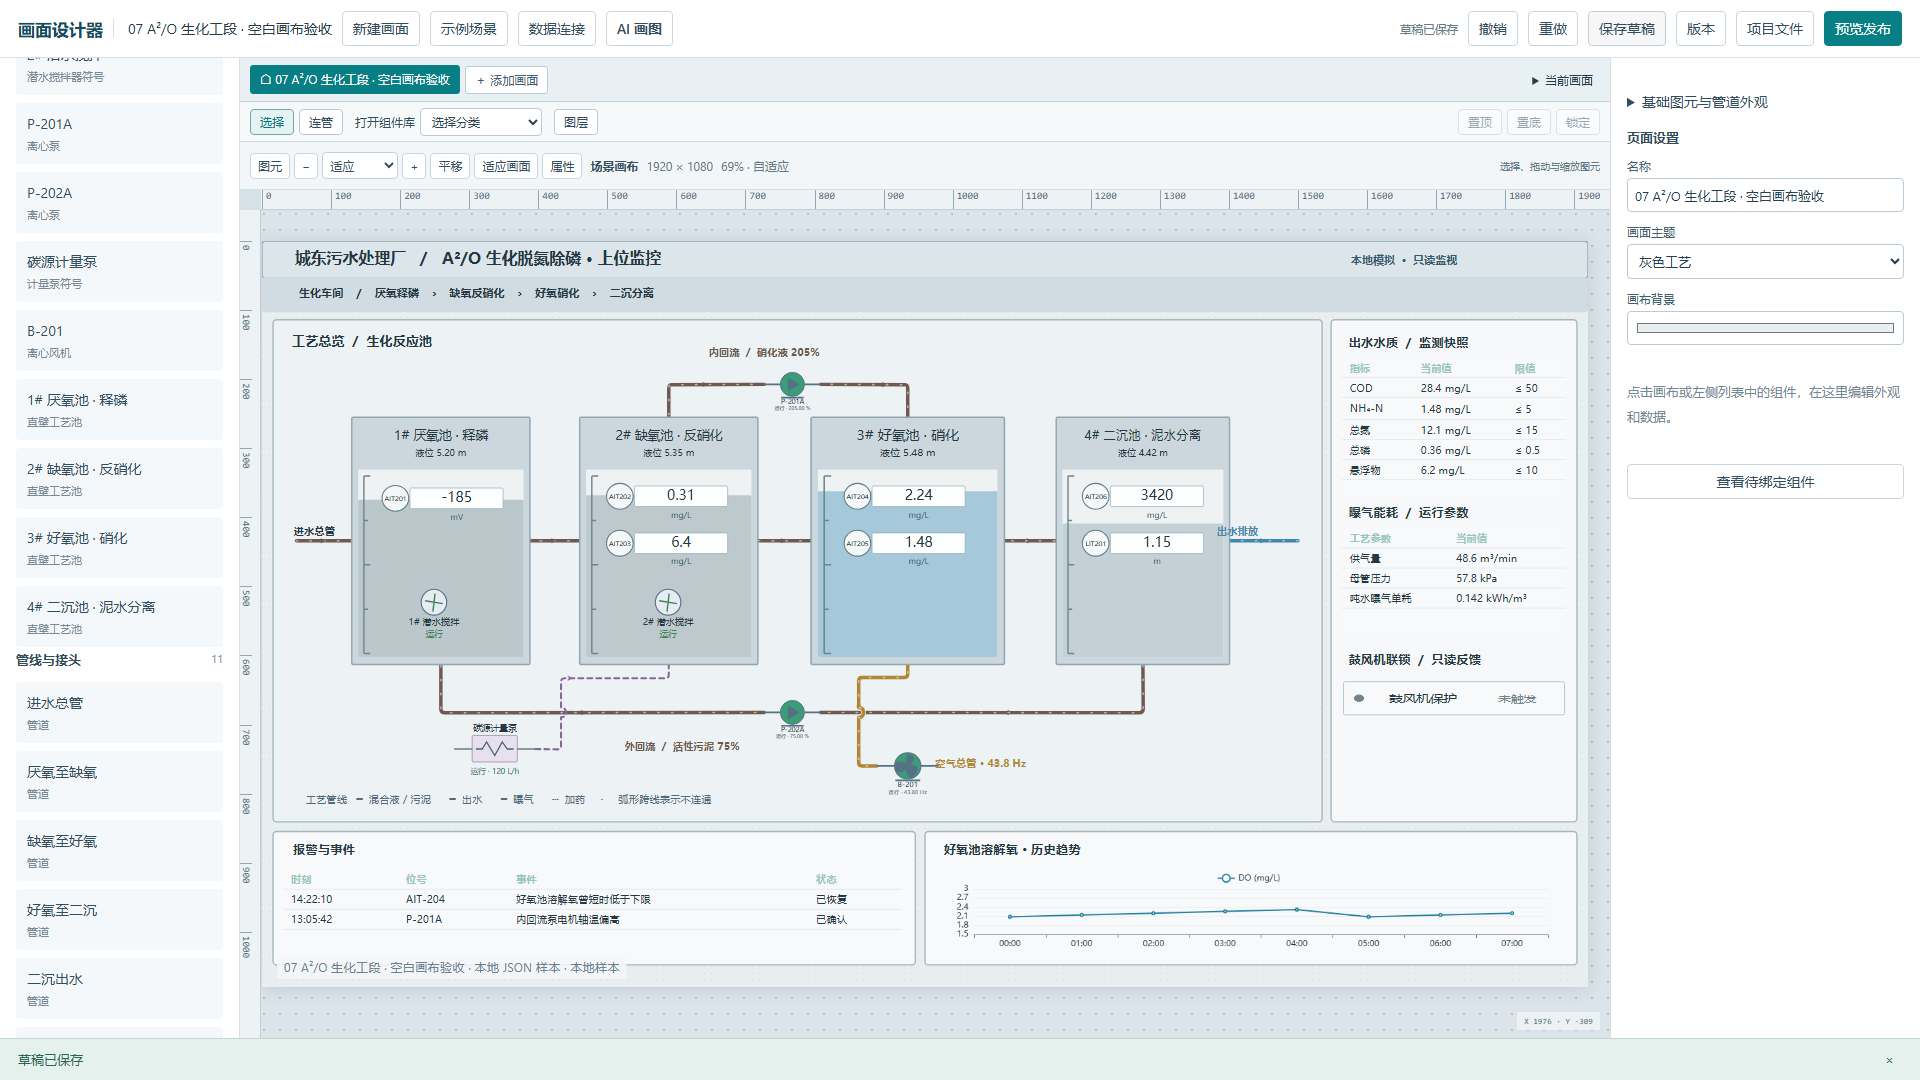
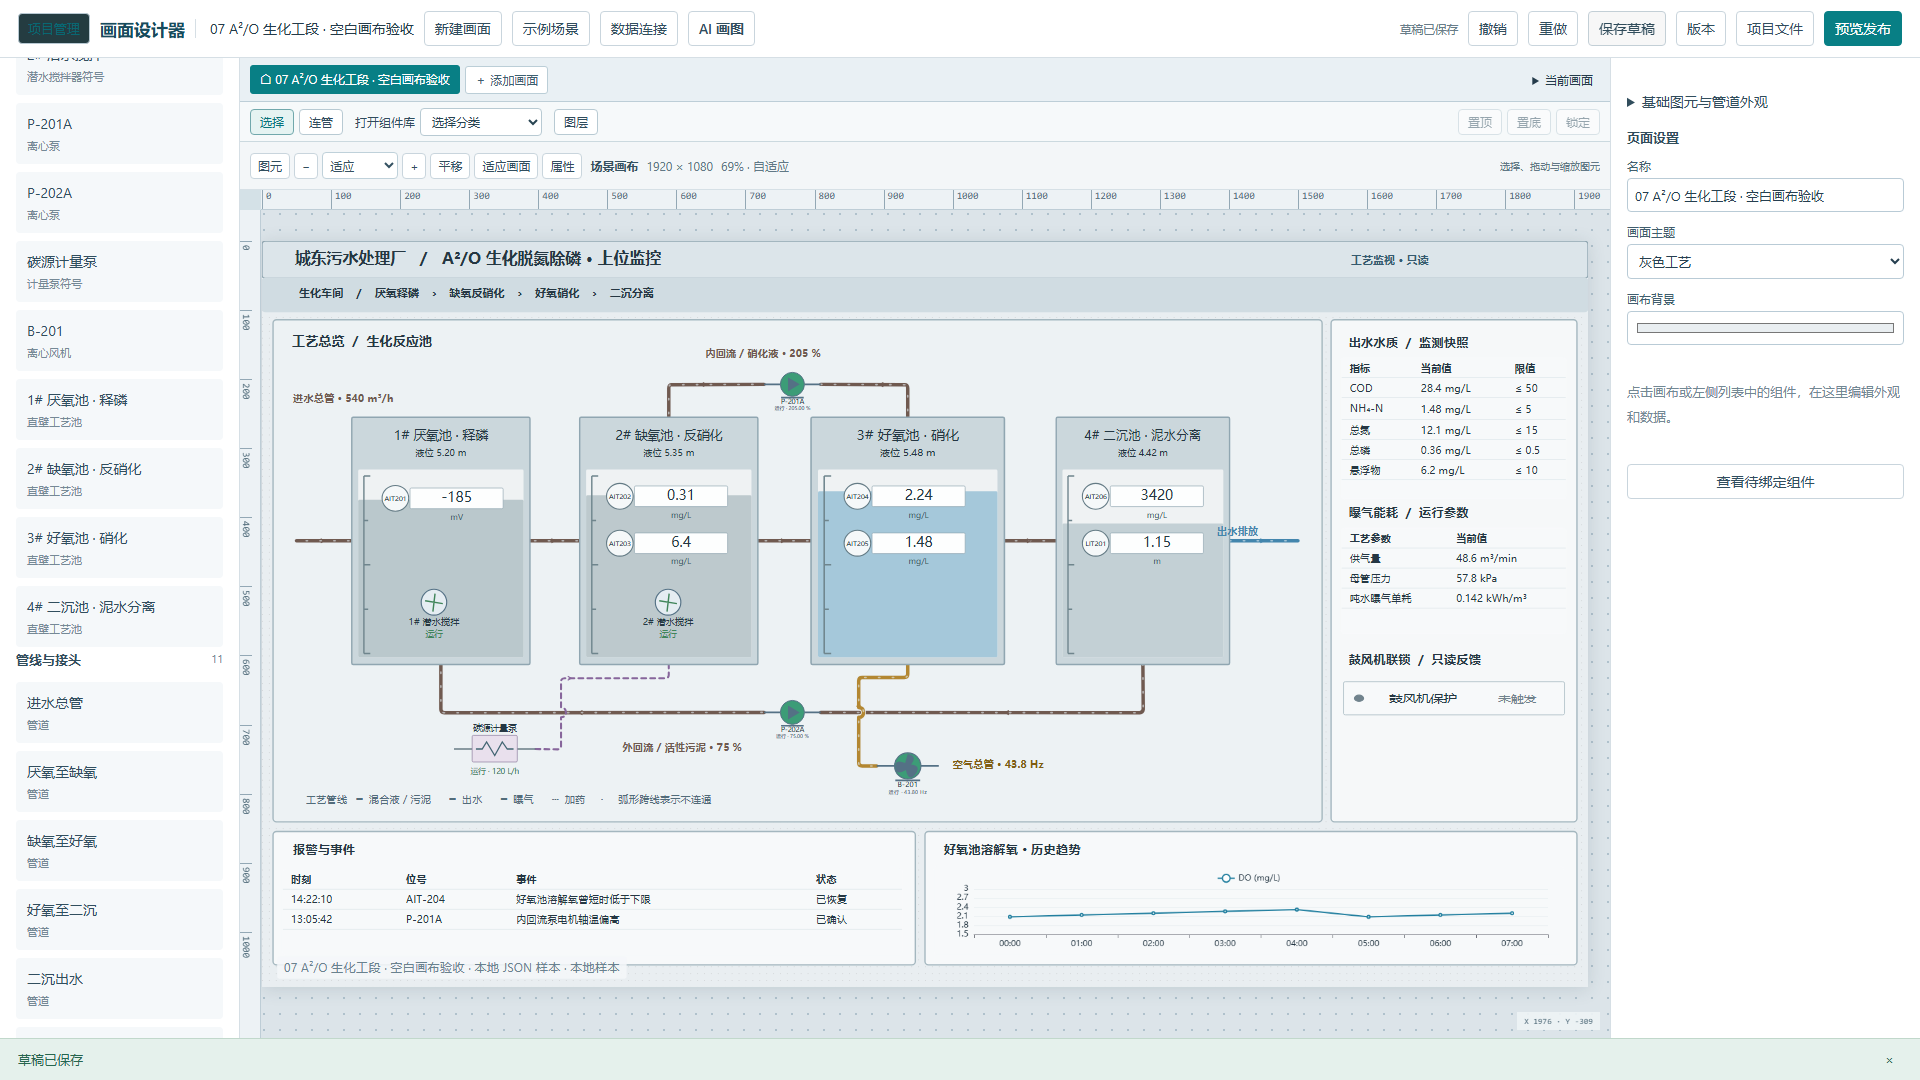
补齐 07 号进水流量监视和发布验收

diff --git a/tests/studio_scene07_classic_ui_check.py b/tests/studio_scene07_classic_ui_check.py
@@ -159,7 +159,7 @@ def exercise(page, base):
     caption('scope',1570,12,331,32,'工艺监视 · 只读',16,'600','#355b70')
     caption('stages',25,60,1430,32,'生化车间    /    厌氧释磷    ›    缺氧反硝化    ›    好氧硝化    ›    二沉分离',16,'600')
     caption('diagram',35,129,430,35,'工艺总览  /  生化反应池',19,'700')
-    caption('in',43,407,138,28,'进水总管',15,'600')
+    readout('in',43,213,230,28,'进水总管','in.flow',0,MUD)
     caption('out',1380,407,135,28,'出水排放',15,'600',WATER)
     readout('return1',640,147,338,30,'内回流 / 硝化液','internal.ratio',0,MUD)
     readout('return2',520,719,255,27,'外回流 / 活性污泥','external.ratio',0,MUD)
@@ -289,7 +289,10 @@ def exercise(page, base):
 
     authored = save()
     assert len(authored['pipes']) == 11
-    assert sum(len(n['bindings']) for n in authored['nodes']+authored['pipes']) == 44
+    assert sum(len(n['bindings']) for n in authored['nodes']+authored['pipes']) == 45
+    assert {point for item in authored['nodes']+authored['pipes'] for point in item['bindings'].values()} == {
+        mapping['id'] for mapping in authored['mappings']
+    }
     index = {p['title']:p for p in authored['pipes']}
     assert index['空气总管']['source']=={'nodeId':ids['air'],'portId':'left'}
     assert index['空气总管']['target']=={'nodeId':ids['aer'],'portId':'bottom'}
@@ -332,8 +335,8 @@ def exercise(page, base):
         return path.evaluate("""p=>{const n=p.getTotalLength();return Array.from({length:Math.ceil(n)},(_,i)=>p.getPointAtLength(i)).some(a=>Math.abs(a.y-682.5)<2&&Math.abs(a.x-864)>3&&Math.abs(a.x-864)<12)}""")
     assert assert_bridge(), 'aeration crossing did not receive a bridge'
     labels = {key:page.locator(f'[data-cell-id="{ids[key]}"] text:visible')
-              for key in ('return1','return2','air-label')}
-    for key, value in [('return1','205 %'),('return2','75 %'),('air-label','43.8 Hz')]:
+              for key in ('in','return1','return2','air-label')}
+    for key, value in [('in','540 m³/h'),('return1','205 %'),('return2','75 %'),('air-label','43.8 Hz')]:
         expect(labels[key]).to_be_visible()
         expect(labels[key]).to_contain_text(value)
     page.screenshot(path=str(OUT/'published-1920.png'))
@@ -355,7 +358,7 @@ def exercise(page, base):
     page.goto(file.as_uri())
     expect(page.locator('.x6-edge')).to_have_count(11)
     assert assert_bridge()
-    for key, value in [('return1','205 %'),('return2','75 %'),('air-label','43.8 Hz')]:
+    for key, value in [('in','540 m³/h'),('return1','205 %'),('return2','75 %'),('air-label','43.8 Hz')]:
         expect(labels[key]).to_contain_text(value)
     assert not requests
     backup = page.request.get(base+'/api/project-backup')
@@ -368,7 +371,7 @@ def exercise(page, base):
 def verify_live_labels(page, base, authored, labels):
     rows = json.loads(authored['source']['data'])['points']
     readings = {row['id']: row for row in rows}
-    for point,value in [('internal.ratio',188),('external.ratio',62),('air.hz',38.4)]:
+    for point,value in [('in.flow',486),('internal.ratio',188),('external.ratio',62),('air.hz',38.4)]:
         readings[point]['value'] = value
     response = (200, json.dumps({'points':rows},ensure_ascii=False).encode())
 
@@ -410,7 +413,7 @@ def verify_live_labels(page, base, authored, labels):
             page.get_by_role('button',name='发布',exact=True).click()
             expect(page.locator('.status-message')).to_contain_text('已发布')
             page.goto(base+'/view'+query)
-            for key,value in [('return1','188 %'),('return2','62 %'),('air-label','38.4 Hz')]:
+            for key,value in [('in','486 m³/h'),('return1','188 %'),('return2','62 %'),('air-label','38.4 Hz')]:
                 expect(labels[key]).to_contain_text(value)
             page.screenshot(path=str(OUT/'rest-good.png'))
             readings['internal.ratio']['value'] = 0
@@ -425,8 +428,9 @@ def verify_live_labels(page, base, authored, labels):
             page.screenshot(path=str(OUT/'rest-offline.png'))
             readings['external.ratio']['quality'] = 'good'
             readings['air.hz']['value'] = 40.2
+            readings['in.flow']['value'] = 502
             response = (200, json.dumps({'points':rows},ensure_ascii=False).encode())
-            for key,value in [('return1','0 %'),('return2','62 %'),('air-label','40.2 Hz')]:
+            for key,value in [('in','502 m³/h'),('return1','0 %'),('return2','62 %'),('air-label','40.2 Hz')]:
                 expect(labels[key]).to_contain_text(value)
         finally:
             server.shutdown()
@@ -459,6 +463,7 @@ def main():
                 assert not errors,errors
                 result=dict(scene=7,nodes=len(doc['nodes']),pipes=len(doc['pipes']),
                     bindings=sum(len(n['bindings']) for n in doc['nodes']+doc['pipes']),
+                    points=len(doc['mappings']),
                     inline_readouts=['sample','rest','zero','unbound','bad_quality','missing','offline','recovery'],
                     errors=errors)
                 (OUT/'project.json').write_text(json.dumps(doc,ensure_ascii=False,indent=2),encoding='utf-8')

diff --git a/docs/acceptance/hmi-monitor-trial.md b/docs/acceptance/hmi-monitor-trial.md
@@ -37,7 +37,7 @@
 
 以完整 07 号工程副本接入本机只读 REST 台架，32 个点中 28 个按相同编号匹配，4 个分别选择新的现值、联锁、历史和告警编号。已发布版本保留 43 个图元、11 条管线和 41 处绑定，浏览器验证了四类数据更新及中断恢复。该测试使用合成数据，现场试点单独计时。
 
-07 号重建工程的内回流比、外回流比和空气总管频率已接入原有业务位号，画面共 44 处绑定，仍使用 32 个业务位号。只读 REST 台架切换坏质量、缺值和离线时，行内标签撤下数字并显示状态，恢复后显示新读数。
+07 号重建工程的内回流比、外回流比和空气总管频率已接入原有业务位号，当时点表有 32 个业务位号，画面有 44 处绑定。只读 REST 台架切换坏质量、缺值和离线时，行内标签撤下数字并显示状态，恢复后显示新读数。
 
 ### 设备协议与历史告警一起接入
 
@@ -47,7 +47,7 @@ OPC UA／Modbus TCP 页的「历史与告警接口」接收只读 REST 的 `poin
 
 台架回归用 `python -X utf8 tests/studio_engineering_ui_check.py` 验证了关联、试读、发布、两路各自中断和恢复、快照过期、重复数据集编号及离线导出。
 
-在完整 07 号本地副本中，28 项模拟设备点经 Modbus TCP 读取，出水、能耗、历史和告警 4 项经 REST 关联。画面使用 31 项，点表中的进水流量位号尚未绑定。短时断线演练记录了 4 个 REST 数据集离线和恢复，画面中的 Modbus 现值持续有效。
+在完整 07 号本地副本中，28 项模拟设备点经 Modbus TCP 读取，出水、能耗、历史和告警 4 项经 REST 关联。画面使用 31 项，点表中的进水流量位号尚未绑定。短时断线演练记录了 4 个 REST 数据集离线和恢复，画面中的 Modbus 现值持续有效。随后在试点候选中把进水总管流量绑定到原有位号，32 项数据均有画面用途，共 45 处绑定。
 
 ### 24／72 小时观测记录
 

diff --git a/docs/acceptance/scene07-classic-rebuild.md b/docs/acceptance/scene07-classic-rebuild.md
@@ -1,6 +1,6 @@
 # 07 号 A²/O 经典上位监控重建验收
 
-以 [07 号原版画面](../screenshots/07-a2o-classic-scada.png) 为对照，从空白 1920×1080 画布搭建厌氧、缺氧、好氧和二沉主流程。通过编辑器放置并连接独立图元，使用本地 JSON 样本的类型化槽位配置液位、模拟量、设备状态、历史和事件数据。最终发布工程包含 43 个图元、11 条管线和 44 处绑定。
+以 [07 号原版画面](../screenshots/07-a2o-classic-scada.png) 为对照，从空白 1920×1080 画布搭建厌氧、缺氧、好氧和二沉主流程。通过编辑器放置并连接独立图元，使用本地 JSON 样本的类型化槽位配置液位、模拟量、设备状态、历史和事件数据。最终发布工程包含 43 个图元、11 条管线和 45 处绑定，32 个测点均被画面使用。
 
 ## 本轮设计器能力
 
@@ -20,7 +20,7 @@
 
 [编辑器](http://127.0.0.1:8142/) · [发布画面](http://127.0.0.1:8142/view)
 
-回流比和空气总管频率使用数值仪表的「行内数值」外观，对应三个已有测点。已验证本地 JSON、发布页和离线演示的单位与小数位，以及本机只读 REST 台架下的变化、零值、未绑定、缺值、无效数据、离线与恢复。
+进水总管流量、回流比和空气总管频率使用数值仪表的「行内数值」外观，对应四个已有测点。进水读数位于首池左上方，避开池边和进水管。已验证本地 JSON、发布页和离线演示的单位与小数位，以及本机只读 REST 台架下的变化、零值、未绑定、缺值、无效数据、离线与恢复。
 
 复现命令为 `python -X utf8 tests/studio_scene07_classic_ui_check.py`。工程、运行结果、两种分辨率截图与离线 HTML 位于 `works/scene07-classic/`。
 
